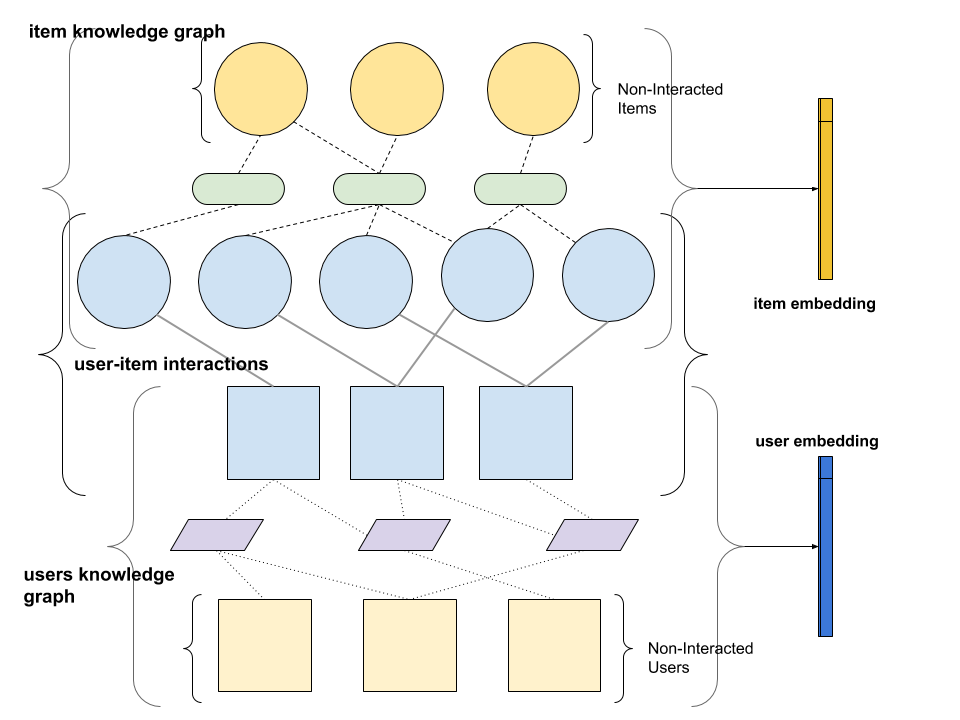
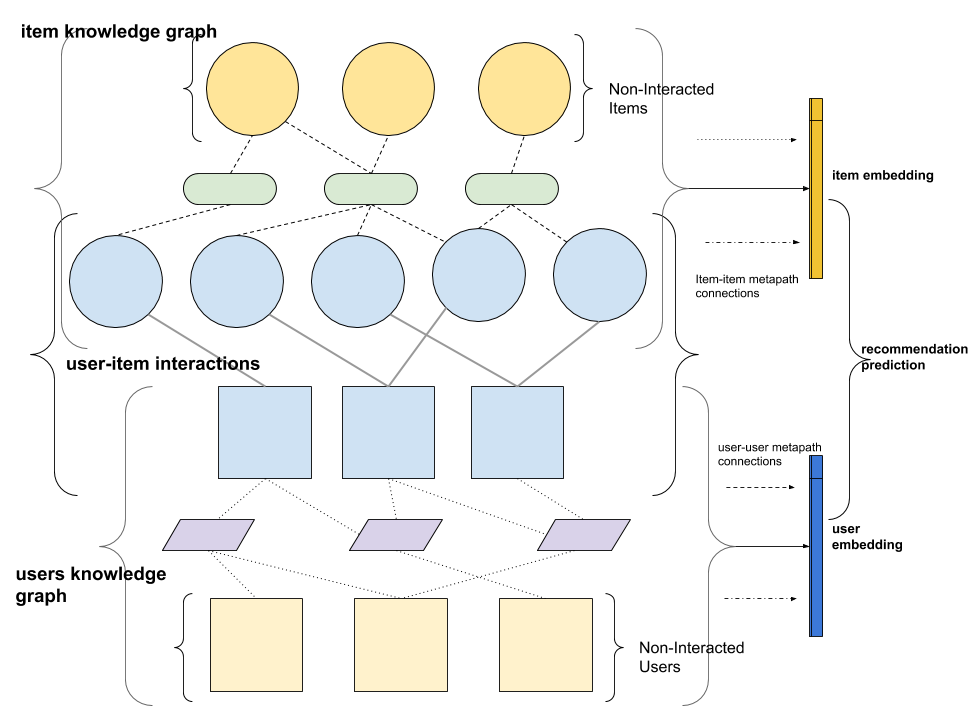
30th edit

diff --git a/_5_methodology_tasks.tex b/_5_methodology_tasks.tex
@@ -1,3 +1,4 @@
+
 % Who introduced the method (or is it new)?
 % Is your use of the method standard?
 % Is your use of the method unusual?
@@ -8,18 +9,20 @@
 
 \section{Methodology}
 
-\subsection*{Task 1: propose a framework to form a unified knowledge graph to accommodate both user/item profile and interactions}
+\subsection*{Task 1: Propose a recommendation framework to form a unified knowledge graph to accommodate both user/item profile and interactions}
 
-Here, we propose to form a heterogeneous knowledge graph based recommendation framework that accommodate item/user profile information besides interactions records as illustrated in Fig \ref{fig:framework}. We explore the semantic information of the graph structure to improve the data density and model adaptiveness.
+Here, we propose to form a knowledge graph based recommendation framework that accommodate both item/user metadata information and interactions, as illustrated in Fig \ref{fig:framework}. We explore the semantic information of the graph structure to improve the data density and model adaptiveness.
 
 \begin{figure*}[!h]
     \centering
-    \includegraphics[width=0.8\textwidth]{figs/framework_overview.jpg}
+    \includegraphics[width=0.95\textwidth]{figs/framework_overview.jpg}
     \caption{framework overview}\label{fig:framework}
 \end{figure*}
 
-Next, based on the proposed framework, we from the user-item heterogeneous knowledge by unifying user profile, item feature, and user-item interactions into single graph.
-Step 1, we use side information to crate user and item knowledge graphs. The node inside graph can either be item or important feature entities based on data exploration and analytics. Same process applies to the user side, i.e. profile information. In the end, we would have 2 heterogeneous knowledge graph, based on users and items perspectively as illustrated as G1 and G2 in Fig \ref{fig:ikgraph}.
+Based on the proposed framework, we from the user-item heterogeneous knowledge graph by unifying user profile, item feature, as well as user-item interactions into a single heterogeneous graph.
+
+First, we use side information to crate user and item knowledge graphs. The nodes inside graph can either be item entities or item features as entities based on data exploration and analytics. Same process applies to the user side, i.e. profile information, such as age, gender, etc. In the end, we would have 2 heterogeneous knowledge graphs, based on users and items perspectively as illustrated as G1 and G2 in Fig \ref{fig:ikgraph}.
+Consequently, we treat user-item interactions as a bipartite graph (as G3 Fig \ref{fig:ikgraph}). As a result, user and item nodes in G1 and G2 are now connected by G3 via "interaction" edges. After this step, we get a unified heterogeneous knowledge graph which contains both user/item feature information as well as interactions.
 
 \begin{figure*}[!h]
     \centering
@@ -27,16 +30,12 @@ Step 1, we use side information to crate user and item knowledge graphs. The nod
     \caption{G1:user knowledge graph, G2:item knowledge graph, G3:user-item bipartite graph}\label{fig:ikgraph}
 \end{figure*}
 
-Consequently, we treat user-item interactions as a bipartite graph (as G3 Fig \ref{fig:ikgraph}). As a result, user and item nodes in G1 and G2 are now connected by G3 via "interaction" edges. After this step, we get a unified heterogeneous knowledge graph which contains both user/item feature information as well as interactions.
-
-As a result, the new data coming into the network can establish relationship to other exiting nodes via different edge types. The rich semantic heterogeneous graph structure, also allow information to be propagated and aggregated through different pathways, enable entity information can be learnt or generate through different connections.
+The rich semantic heterogeneous graph structure enables the new data coming to establish relationship via different node and edge types, which also allowing information to be propagated and aggregated through different pathways. As a result, entity information can be learnt or generate, and subsequently, recommendation predictions can be made based on the output. 
 
 
-\subsection*{Task 2: Propose a method to leverage user/item representation with heterogeneous knowledge graph}
+\subsection*{Task 2: build a recommendation method to leverage user/item representation with heterogeneous knowledge graph}
 
-Following to task 1, incorporating the rich heterogeneous knowledge graph into recommender system is not straight forward. Most recommender models are only capable of processing structured data. The aim of this task is to transforming node into latent representation through nodes' neighborhood propagation for recommender system to use.
-
-In addition to using direct connections, in this task, we adopts experts knowledge into representation modeling process by defining meta-path connections between nodes. Adopting expert knowledge brings a number of benefits:
+Following to task 1, incorporating the rich heterogeneous knowledge graph into recommender system is not a straight forward process. Most recommender models are only capable of processing structured data. The aim of this task is to transforming node into latent representation through nodes' neighborhood propagation for recommender system to use.
 
 \begin{figure*}[!t]
     \centering
@@ -44,70 +43,89 @@ In addition to using direct connections, in this task, we adopts experts knowled
     \caption{meta-path based interactions via heterogeneous knowledge graph}\label{fig:meta_task2}
 \end{figure*}
 
-Firstly, We establish indirect user-item relationship from the heterogeneous knowledge graph from task 1. For example, \textit{User - Movie} interaction, can be extend to \textit{User - Movie1 - Actor - Movie2}. As a result, collaborative filtering (CF) based recommendation approach can benefits from the denser interaction datasets. 
+In addition to using direct connections, in this task, we adopts experts knowledge into representation modeling process by defining meta-path connections between nodes. As a result, we now can establish indirect user-item connections based on the heterogeneous knowledge graph. For example, \textit{User - Movie} interaction, can be extend to \textit{User - Movie1 - Actor - Movie2}. Consequently, collaborative filtering based recommendation approach can be benefited from the denser datasets.
 
-Subsequently, high-order connectivity with in heterogeneous knowledge graph is included as part of node representation learning process. So that, side information such as user demographics, item feature representation and node structural information can be learnt and transform into feature vectors for the representative model. 
+Consequently, high-order connectivity with in heterogeneous knowledge graph is included as part of node representation learning process. So that, side information such as user demographics, item feature representation and node structural information can be learnt and transform into feature vectors holistically for the representative model.
+Another added benefit of meta-path approach is reducing bias, which happens commonly in early stage of recommender systems. i.e. When data is not sufficiently available to represent a complete user/item distribution.
 
-Another added benefit of meta-path approach is reducing bias. Since, it happens commonly in early stage of recommender systems. i.e. When there is insufficient data available to represent a complete user/item distribution. 
+Lastly, we propose a recommendation framework that incorporates above representation approach. By leveraging CF information and path-based similarity within the heterogeneous knowledge graph. As illustrated in Fig \ref{fig:meta_task2}, both interacted and non-interacted user/item entities now can participated into recommender model training.
 
-Lastly, we propose a recommendation framework that incorporates above representation approach. By leverage CF information and path-based similarity within the heterogeneous knowledge graph. As illustrated in Fig \ref{fig:meta_task2}, both interacted and non-interacted user/item entities now can participated into recommender model training.
+\subsection*{Task 3: Build a meta-path based representation method that adapts to unseen data points}
 
-\subsection*{Task 3: to build a recommendation method that is adaptive to unseen data points}
+So far, task 1 and task 2 try to alleviate data sparsity problem by forming heterogeneous knowledge graph and establish indirect connections via meta-path. On the other hand, our recommendation model is still limited to a static recommendation. i.e. The model is only capable of making predictions on data presented during training phase.
 
-So far in Task 1 and Task 2 try to alleviate data sparsity problem by forming heterogeneous knowledge and establish indirect connections via meta-path. However, our recommendation model is limited to a static dataset. i.e. The model is only capable of making predictions on data presented during training phase. 
+\begin{figure*}[!h]
+    \centering
+    \includegraphics[width=0.95\textwidth]{figs/sagegraph.png}
+    \caption{sage graph embedding}\label{fig:sagegraph}
+\end{figure*}
 
-The graph convolutional network based embedding approach had shown promising results on classification and link prediction problems. Inspired by GraphSAGE \citep{hamilton2017inductive} and graph attention network (GAT) \citep{velivckovic2017graph}, which introduced a general inductive framework to efficiently generate node embeddings for previously unseen data. \citet{hamilton2017inductive} uses function that generates embeddings by sampling and aggregating features from node neighbors.
+In order to solve the challenge, the graph convolution network based embedding approach has shown promising results on classification and link prediction problems. \citet{hamilton2017inductive} uses function that generates embeddings by sampling and aggregating features from node neighbors, as shown in Fig. \ref{fig:sagegraph}. In this task, we extend the neighborhood sampling by taking part different meta-path connections into this task. This results a extended message propagation and aggregation rules to sample neighborhood and layers within the knowledge graph. Intuitively, different node relationships would be taken part in the embedding process.
 
-In this task, we adopt the inductive approach above onto heterogeneous knowledge graph. In order to to extend model prediction capability, we need to work on 2 major parts: message propagation ability and aggregation rules through nodes neighborhood and layers. 
-Following previous tasks, we apply GAT attention mechanism as part of the message propagation method via node neighborhood linkage and pre-defined meta-path connections. One side benefit of such approach is, expert define relationships can now be explained through attention weights, which leads to better model interpretability.
-Next, we define appropriate aggregator approach from the node neighborhood. We measure and compare different pooling rules and attention mechanism for the inductive learning step.
+Subsequently, attention approach can be employed. As illustrated in Fig. \ref{fig:gat}, similar to the graph attention network (GAT) approach \citep{velivckovic2017graph}, we apply multi-headed attention mechanisms, which learns different attention coefficients on its neighborhood nodes. The neighborhood nodes here are nodes either directly or indirectly connected via path and meta-paths. Subsequently, the later learnt attention coefficients weights can be used to explain the importance of different meta-paths, which leads to better model interoperability.
 
-Lastly, we evaluate the inductively generated node representation effectiveness by applying it in recommendation problem settings. 
+\begin{figure*}[!h]
+    \centering
+    \includegraphics[width=0.6\textwidth]{figs/gat.png}
+    \caption{graph attention network}\label{fig:gat}
+\end{figure*}
 
-At a high level, this task solves the limitations by incorporating graph structure and node attributes and generate node embeddings that were not present during training for recommendation predictions.
+We expect the end result will introduce a general inductive approach, which can efficiently generate node embeddings for unseen data that is not initially included during training.
+Experiment will be conducted on different propagation and aggregator approach for node neighborhood sampling. We measure and compare different pooling rules and attention mechanism for the inductive learning step.
+
+At a high level, this task solves the limitations by inductively generate node embeddings for new data points were not present during training for recommendation predictions. as a result, in the end the final recommendation model are more adaptive to new data input, and more capable of handling prediction in cold start settings.
 
 
-\subsection*{Task 4: Develop a knowledge transfer method to improve target domain data sparsity by leveraging source knowledge graph }
-
-In tasks 1-3, we are focusing on 2 major challenge: 1. how to included data that lacks of interactions for training. 2. how to make predictions on data that emerged post training phase. In this task, we are going to focus more on transferring learnt knowledge from a different domain via knowledge graph to overcome the data sparsity problems.
-
-First, we use common metadata (such as, item labels, demographics, etc.), to establish connections between source domain and target domain. 
-Next, we propose a novel network transfer learning framework that leverage  adversarial domain adaptation technique and network multi-order interactions to enable knowledge transfer in a unified end-to-end framework. 
-
-\subsection*{Task 5: Develop a multi-domains recommender systems based on heterogeneous knowledge graph}
-
-\subsubsection*{Step 1: Define a unified optimization objective for knowledge graph based recommender system}
-In this task, we aim to optimize node representation inside knowledge graph as well as collaborative user-item interactions recommendation in a jointly fashion.
-Based on the findings from task 1-4, we apply earlier defined propagation rule and aggregator method under following objective function as:
+\subsection*{Task 4: Define a recommendation method that leverage inductive representation}
+In this task, we aim to optimize node representation inside knowledge graph jointly with collaborative user-item interactions for recommendation objectives.
+Based on the findings from task 3, we apply earlier defined propagation rule and aggregator method under following objective function as:
 
 \begin{equation}
     Loss=\min{(L_\text{KGE}+L_\text{FM}+\lambda\|\theta\|^2_2)}
 \end{equation}
 
-Where $L_\text{KGE}$ is the optimization target for representation embedding in knowledge graph. Here we will experiment on different loss option for optimizing recommendation problem. For example, the entity relationship can be optimise based on translation principle \citep{lin2017learning}. 
+Where $L_\text{KGE}$ is the optimization target for representation embedding in knowledge graph. Next, we will experiment on different loss option for optimizing recommendation problem. For example, the entity representation can be optimise based on translation principle \citep{lin2017learning}.
 
 \begin{equation}
     L_\text{KGE}=\sum{(h,r,t^+,t^-)} -ln_{sigmoid}(g(h,r,t^-)-g(h,r,t^+))
 \end{equation}
 
-While $g(h,r,t)$ is the projected probability from entity $h$ to target entity $t$ propagated via relationship $r$. $^+,^-$ stands for positive and negative samples. Accordingly $L_\text{FM}$ is the BPR \citep{rendle2012bpr} loss for optimizing recommendation objectives. 
+While $g(h,r,t)$ is the projected probability from entity $h$ to target entity $t$ propagated via relationship $r$. $^+,^-$ stands for positive and negative samples. Accordingly $L_\text{FM}$ is the BPR \citep{rendle2012bpr} loss for optimizing recommendation objectives.
 \begin{equation}
-    L_\text{FM}=\sum{(u,i^+,i^-) \in G_{u,i}} -ln_{sigmoid}(y(u,i^+)-y(u,i^-))
+    L_\text{FM} = L_\text{BPR}=\sum{(u,i^+,i^-) \in G_{u,i}} -ln_{sigmoid}(y(u,i^+)-y(u,i^-))
 \end{equation}
 Where y(u,i) commonly stands for user-item dot product, Intuitively, the its result can be regarded as similarity score.
 
 Lastly, regularization is applied on $\theta$ as model parameters.
 
-Consequently, the trained model entity representation would tailored toward the recommendation objective.
+Consequently, the trained model entity representation would tailored toward the recommendation objective in a end-to-end fashion.
+
+Experiment and evaluation will be con ducted on multiple data conditions, such as sparse dataset, cold stat, zero interaction settings to compare and measure the effectiveness of proposed methods.
 
 
-\subsubsection*{Step 2: Design a cross-domain recommendation framework via knowledge graph}
+\subsection*{Task 5: Develop a knowledge transfer method to improve target domain data sparsity by leveraging source knowledge graph}
 
-In the second step, we extend recommendation model from single domain in Step 1 to multiple domains for further exploration on domain adaptation ability across multiple knowledge graphs.
+In this task, we are going to focus more on transferring knowledge from a different domain, where similar but more abundant information can be learnt and adapted from source domain to target domain for improving both entity representation and recommendation objectives. The research and experiments inside this task will be conducted on 2 different approaches:
 
-Similarly to single domain, we extend user-item interactions across 2 different domains. Further side information as described in task 4 is serving as extra connections between target and source knowledge graphs.
+\subsubsection*{Matrix-based FM method for cross-domain knowledge transfer}
+Matrix-based FM method projects nodes and its neighborhood as one-hot encoding from both source and target knowledge graph into a single matrix. This way, we can treat the matrix containing domain-shared information, such as overlapped user or items. Following up, factorization machine approach is applied on top of the derived matrix. Hence embedding vector can be learnt as $FM(x) = v_x \in R^k$, where $k$ is the vector dimension. Knowledge graph based embedding, which was discussed in task 2 and 3 will be applied here for learning source and target domain-specific representations as $KGE(x)$.
+Lastly, concatenation is applied, as, intuitively to combine both domain-shared and domain-specific representations into a single vector.
+Additionally, a share $MLP$ function can be applied on both $FM(x)$ and $KGE(x)$ during training phrase. so, the final representation can be denoted as $v_x = [MLP(MF(x));MLP(KEG(x))]$, where $";"$ stand for the concatenation of two node representations.
 
-Following GANs intuition, we introduce domain classifier D as critic, a binary classifier, to predict if positive sample item comes from source or target domain based on its representation. Intuitively, cross graphs node representation and D can be regarded as 2 player minimax game. It is expected node representation become domain-invariant when reaching equilibrium, i.e. knowledge is transfers across domains, that leads the source and target domain to be aligned. The domain alignment loss can be defined as:
+\subsubsection*{GANs-based method for cross-domain knowledge transfer}
+Adversarial domain adaptation technique is another approach we will experiment on transferring knowledge across 2 different domains.
+First, we identify common entities, for example shared users or items or their related metadata (such as, item labels, demographics, etc.), to establish connections between source and target domain, and consequently unifying the target and source domain into a single knowledge graph.
+Again, knowledge graph embedding will be used for node representation on the unified knowledge graph. Next, a 2 players minimax game are designed for alignment between target and source domains. i.e. a critic will be used for distinguish domain origin based on node representation or interaction connections. A more detail example can be seen in task 6.
+
+
+\subsection*{Task 6: Develop a multi-domains recommender systems based on heterogeneous knowledge graph}
+
+For this task, we extend recommendation model from single domain to multiple domains, in order to further explore on domain adaptation ability by leverage 2 or more knowledge graphs.
+
+Similarly to single domain, we establish richer user-item connections across the source and target domains. Further, common cross-domain entities as described in task 5 can now serve as bridges for unifying and transferring information between 2 knowledge graphs.
+For example, when target and source domains shares a common sub-section of users.
+
+Following GANs intuition, we can introduce domain classifier D as critic, a binary classifier, to predict the origin of positive item sample. i.e. is the item belonged to source or target domain based on its representation vector as classifier input. Intuitively, cross graphs node representation and D now can be regarded as 2 players minimax game. It is expected node representation become domain-invariant when reaching equilibrium, i.e. knowledge is transfers across domains, that leads the source and target domain to be aligned. The domain alignment loss can be defined as:
 
 \begin{equation}
     L_\text{DA}(e_s,e_t)=E_{e \in D_s}[log(1-D(e_s))] + E_{e \in D_t}[log(D(e_t))]
@@ -119,9 +137,11 @@ Finally we adjust our cross-domain recommendation objective to as following:
     Loss=\min{(L_\text{DA}+L_\text{FM}+\lambda\|\theta\|^2_2)}
 \end{equation}
 
-\subsection*{Task 6:Build a prototype for validating the proposed recommendation approaches}
 
-The research will be verified from two aspects: 
+
+\subsection*{Task 7:Build a prototype for validating the proposed recommendation approaches}
+
+The research will be verified from two aspects:
 First, verify knowledge graph based recommendation approach using public datasets, such as DBLP Citation Networks, MovieLens data sets. Similarity measure as well as adaptiveness are the core parts of this research, each aspects will be verified accordingly.
 Second, the recommendation approach will be used in a real world data sets for solving industry problems. Such as, tourism , job posting and real estate listings where suffers from constant cold start problems. Experiments will be used to further test the effectiveness of the proposed method.
 

diff --git a/_3_literature_review.tex b/_3_literature_review.tex
@@ -43,7 +43,7 @@ Techniques such PathSim \citep{Sun2011PathSim} and HeteSim \citep{Shi2013HeteSim
 Embedding based approach, such as node2vec \citep{grover2016node2vec} further pushed graph based algorithmic framework for learning continuous feature representations. In node2vec, nodes is mapped to low-dimensional space of features that maximizes the likelihood of preserving network neighborhoods of nodes. Using a biased random walk procedure to explores diverse neighborhoods, node2vec can learn task-independent representations in complex networks. 
 Entity2rec \citep{palumbo2017entity2rec} demonstrated that by using knowledge-graph, Property-specific user-item relatedness, and Global user-item relatedness, could significantly improve top-n recommendation performance
 
-Graph Neural Network (GNN) as an extension of deep learning approaches using graph data network structure have recently gaining attention. 
+Graph neural network approach, such as, graph convolution network \citep{kipf2016semi} have shown promising results in node representation space. 
 GraphSAGE \citep{hamilton2017inductive} proposed a inductive approach fo generating node embeddings. Instead of requiring all nodes in the graph to be presented during training of the embeddings, GraphSAGE extend the generalization ability to unseen nodes. 
 Graph attention network \citep{lee2018graph} is a good demonstration of attention-based learning techniques are applied in graph. Such feature learning ability makes a graph based data feature to be more versatile in facing data changes. 
 Techniques, such as, user-guided embedding, can be invaluable for catering to optimise recommendation problem and effectively reduce the data noise problem by exploiting the signals residing in the data.

diff --git a/_4_signifigance.tex b/_4_signifigance.tex
@@ -10,6 +10,6 @@ Thus, knowledge graph based recommender system can provide a generic yet effecti
 \subsection{Theoretical Significance}
 Most of the recommender system research treats recommendation problem as a static snapshot. The consequences of such approach means the recommendation model's ability of adapting new data points are low. Data changes are rarely scoped as part of recommender system design, even though that is a key characterize of real-world datasets. 
 
-For this study, we are focusing on recommender systems design by leverage knowledge graph structure. We explore the entity representation property inside heterogenous graph and its knowledge transferring ability under cross-domain settings to improve recommendation quality and model adaptiveness, especially, when initial datasets are sparse.
+For this study, we are focusing on recommender systems design by leverage knowledge graph structure. We explore the entity representation property inside heterogeneous graph and its knowledge transferring ability under cross-domain settings to improve recommendation quality and model adaptiveness, especially, when initial datasets are sparse.
 
 

diff --git a/_2_questions_objectives_outcome.tex b/_2_questions_objectives_outcome.tex
@@ -11,13 +11,13 @@ In this research, we explore the transfer learning application on cross-domain k
 \subsection{Questions}
 
 \subsubsection*{Question 1}
-How to represent users and items in a unified knowledge graph with user-item interactions and metadata for recommender system?
+How to represent users and items in a unified heterogeneous knowledge graph for recommender system?
 
 \subsubsection*{Question 2}
 How to develop a recommender system that is adaptive to new data overtime?
 
 \subsubsection*{Question 3}
-How to effectively transfer knowledge to assist recommendation among multiple knowledge graphs?
+How to effectively transfer knowledge to assist recommendation via cross-domains knowledge graphs?
 
 \subsection{Objectives}
 This research aims to achieve following objectives: 

diff --git a/_6_ethics_progress.tex b/_6_ethics_progress.tex
@@ -1,5 +1,6 @@
 \section{Ethics and risk consideration}
-According to “HREC Guidelines for Undergraduate and Postgraduate Students”, this research does not need HREC approval. The theory, algorithms and software development are not involved human and private data. Therefore, there is no ethical issue.
+According to “HREC Guidelines for Undergraduate and Postgraduate Students”, this research does not need HREC approval.
+The theory, algorithms and software development are not involved human and private data. Therefore, there is no ethical issue.
 
 \section{Research schedule and progress to date}
  
